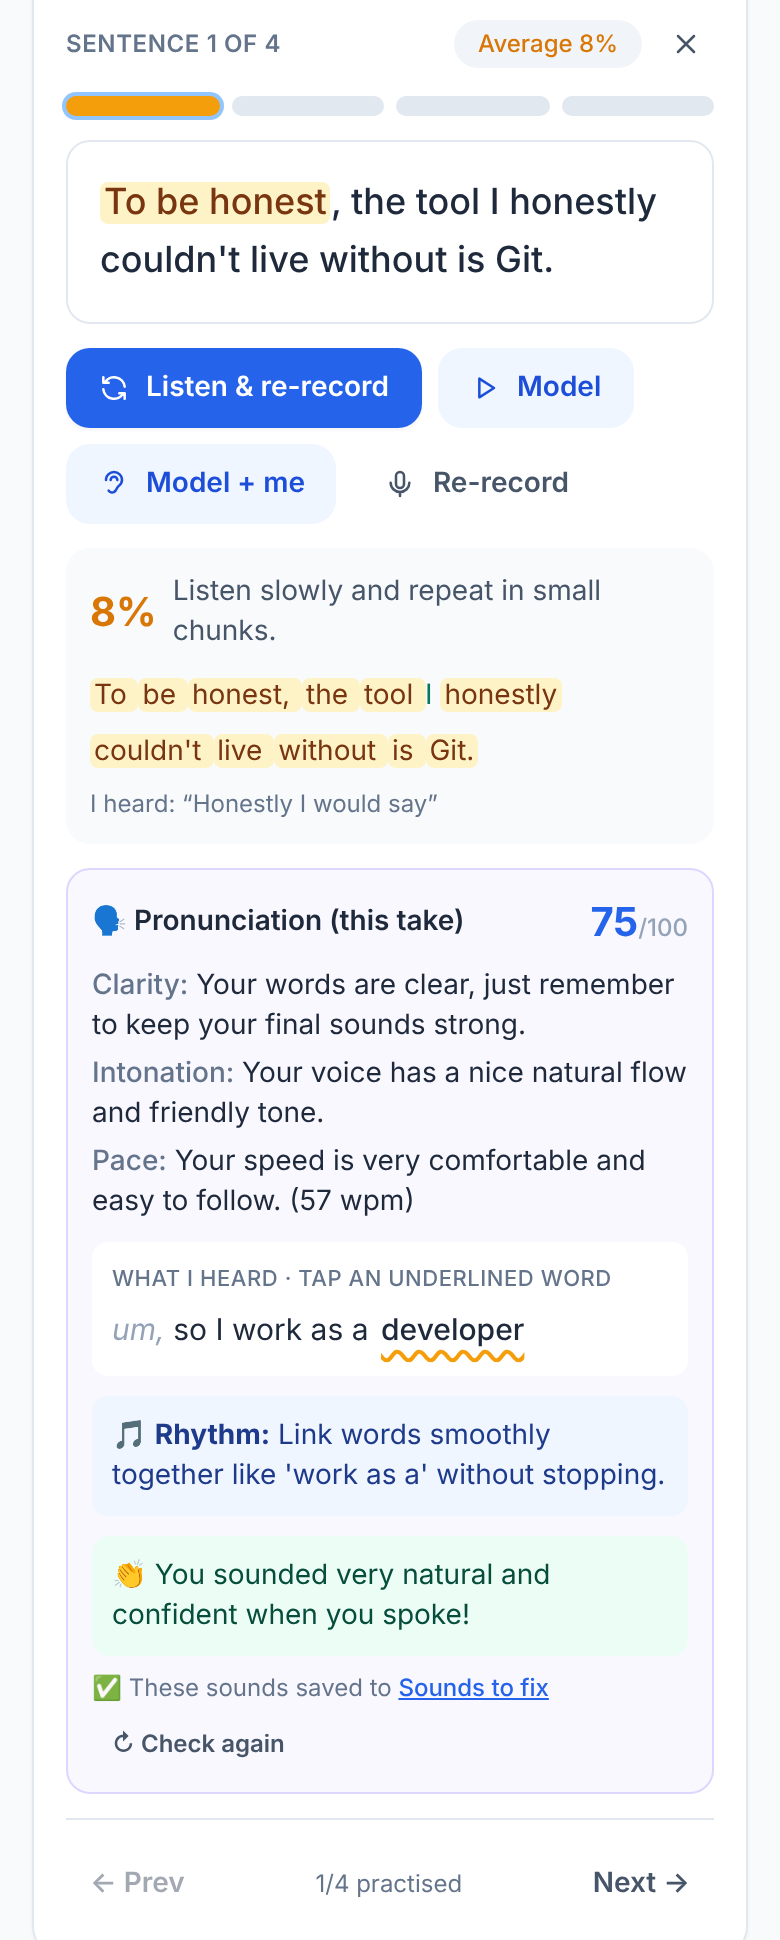
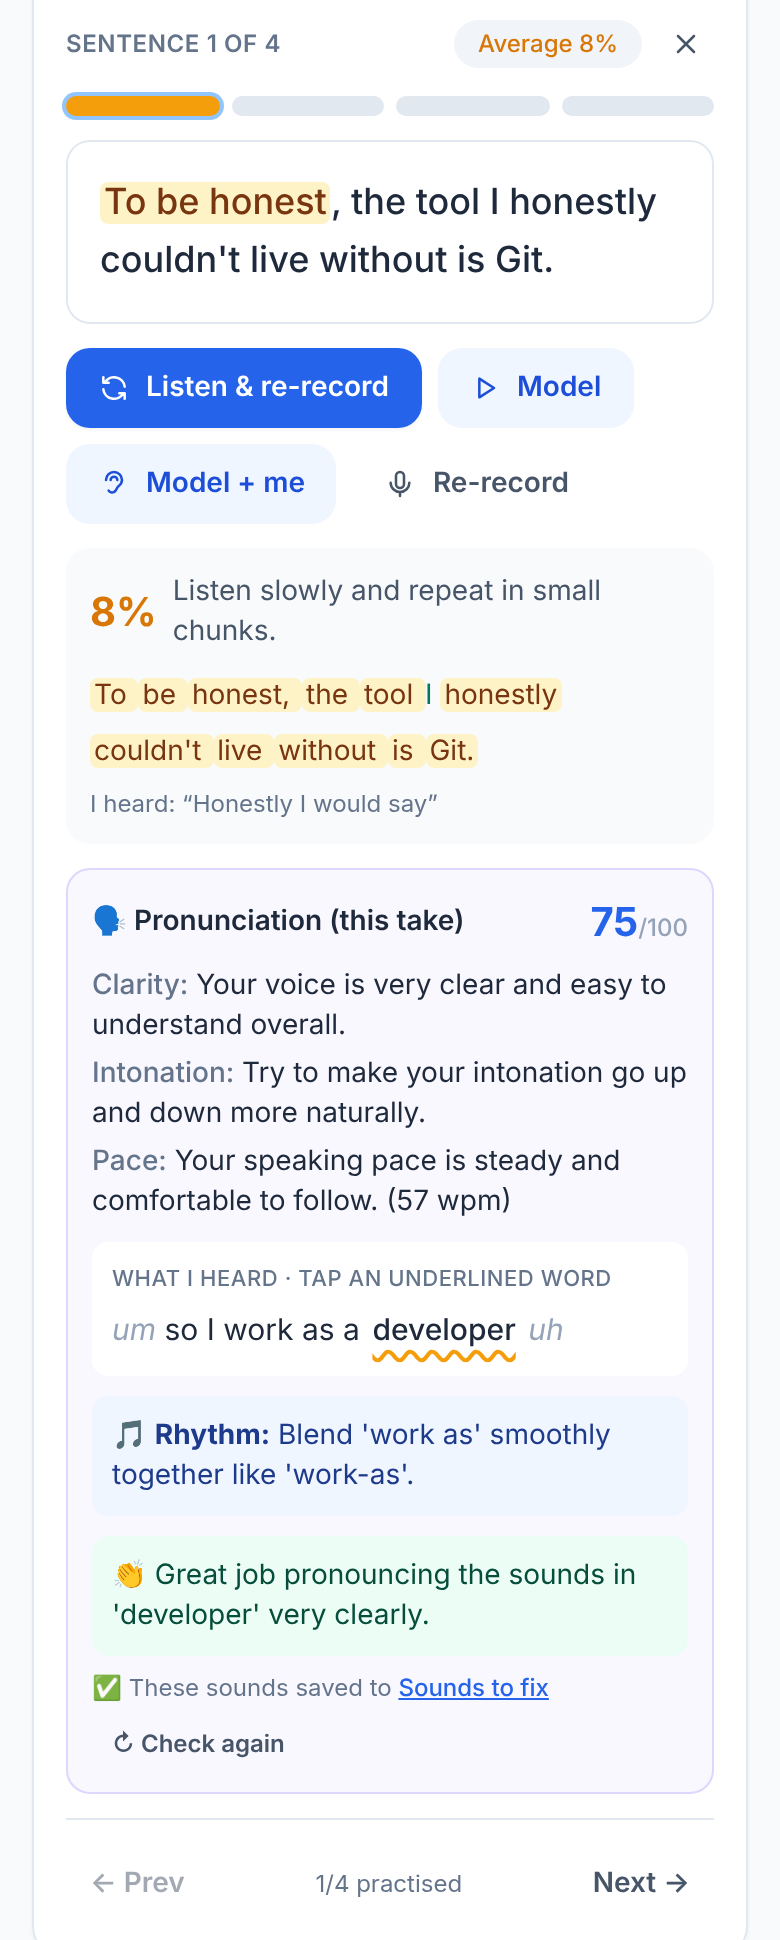
Pronunciation review fixes (EL) + save retell fluency
- pronunciationCheck takes the accent (Listen tab US/UK, default US): tips and IPA for that accent; word playback uses a matching voice
- 'th' repair (t/d -> th) only when the repaired word is in the recognised/target words, so to/do are never changed
- Listen retell fluency stats are now saved inside listening_sessions.retell (no migration) and shown in History
- Scripts: accent check in screenshots-pronunciation (demo UK, real US); History retell fluency check in screenshots-listen

diff --git a/src/components/PronunciationCard.tsx b/src/components/PronunciationCard.tsx
@@ -9,6 +9,7 @@ import { useStore } from '../lib/store';
 import type { PronunciationResult, PronWord } from '../lib/types';
 import { ErrorBox, Spinner } from './ui';
 import { useSayWord, WordTryButton } from './WordTry';
+import { preferredAccent } from '../lib/speech';
 
 const ISSUE_LABEL: Record<string, string> = {
   'final-consonant': 'Final sound',
@@ -37,6 +38,8 @@ interface Props {
   result?: PronunciationResult;
   onResult?: (r: PronunciationResult) => void;
   title?: string;
+  /** Target accent for tips, IPA and the word playback (default: the Listen tab choice, else US). */
+  accent?: 'US' | 'UK';
 }
 
 /**
@@ -44,7 +47,8 @@ interface Props {
  * a score, short notes, the transcript with 3–5 underlined problem words (tap to hear / retry),
  * one rhythm tip and one thing done well. Problem words are saved to "Sounds to fix".
  */
-export default function PronunciationCard({ clips, transcript, expected, context, result, onResult, title = '🗣 Pronunciation' }: Props) {
+export default function PronunciationCard({ clips, transcript, expected, context, result, onResult, title = '🗣 Pronunciation', accent: accentProp }: Props) {
+  const accent = accentProp || preferredAccent();
   const ai = useAIConfig();
   const { addSounds } = useStore();
   const [busy, setBusy] = useState(false);
@@ -66,7 +70,7 @@ export default function PronunciationCard({ clips, transcript, expected, context
     try {
       const audio = await prepareAudio(clips);
       if (!audio) throw new Error('No audio was captured. Record your answer with the mic and try again.');
-      const r = await pronunciationCheck(ai, audio, { expected, transcript, context });
+      const r = await pronunciationCheck(ai, audio, { expected, transcript, context, accent });
       if (!r.transcript.trim() && r.score === 0) throw new Error("I couldn't hear any speech in the recording. Check your microphone and try again.");
       setSaved(addSounds(r.words));
       setOpen('');
@@ -96,7 +100,7 @@ export default function PronunciationCard({ clips, transcript, expected, context
       )}
       {error && <div className="mt-2"><ErrorBox error={error} onRetry={run} /></div>}
 
-      {result && <PronResult result={result} open={open} setOpen={setOpen} />}
+      {result && <PronResult result={result} open={open} setOpen={setOpen} accent={accent} />}
 
       {result && (
         <div className="mt-2 flex flex-wrap items-center justify-between gap-2 text-xs">
@@ -111,8 +115,8 @@ export default function PronunciationCard({ clips, transcript, expected, context
 }
 
 /** The result body (also used read-only in History). */
-export function PronResult({ result, open, setOpen }: { result: PronunciationResult; open: string; setOpen: (w: string) => void }) {
-  const say = useSayWord();
+export function PronResult({ result, open, setOpen, accent }: { result: PronunciationResult; open: string; setOpen: (w: string) => void; accent?: 'US' | 'UK' }) {
+  const say = useSayWord(accent);
   // Match the transcript by the target word, or by how it sounded ("tree" for three) when the
   // transcript spells what was heard.
   const problems = useMemo(() => {
@@ -185,7 +189,7 @@ export function PronResult({ result, open, setOpen }: { result: PronunciationRes
         <div className="flex flex-wrap gap-1.5">{result.words.map((w) => <button key={w.word} type="button" onClick={() => tap(w)} data-testid="pron-word" className="chip bg-amber-100 text-amber-800 underline decoration-wavy">{w.word}</button>)}</div>
       )}
 
-      {active && <WordPanel w={active} />}
+      {active && <WordPanel w={active} accent={accent} />}
 
       {result.rhythmTip && <p className="rounded-lg bg-blue-50 p-2.5 text-sm text-blue-900 dark:bg-blue-950/50 dark:text-blue-100">🎵 <b>Rhythm:</b> {result.rhythmTip}</p>}
       {result.wellDone && <p className="rounded-lg bg-emerald-50 p-2.5 text-sm text-emerald-900 dark:bg-emerald-950/40 dark:text-emerald-100">👏 {result.wellDone}</p>}
@@ -193,8 +197,8 @@ export function PronResult({ result, open, setOpen }: { result: PronunciationRes
   );
 }
 
-function WordPanel({ w }: { w: PronWord }) {
-  const say = useSayWord();
+function WordPanel({ w, accent }: { w: PronWord; accent?: 'US' | 'UK' }) {
+  const say = useSayWord(accent);
   return (
     <div className="rounded-lg border border-amber-200 bg-amber-50 p-2.5 dark:border-amber-900/60 dark:bg-amber-950/30" data-testid="pron-panel">
       <div className="flex flex-wrap items-baseline gap-x-2">

diff --git a/src/lib/ai.ts b/src/lib/ai.ts
@@ -426,12 +426,15 @@ export const PRON_ISSUES = ['final-consonant', 'th', 's-sh', 'stress', 'vowel', 
 export async function pronunciationCheck(
   cfg: GeminiConfig,
   audio: { mimeType: string; data: string; seconds: number; measured?: { pauses: number; longestPause: number; speechSeconds: number } },
-  opts: { expected?: string; transcript?: string; context?: string },
+  opts: { expected?: string; transcript?: string; context?: string; accent?: 'US' | 'UK' },
 ): Promise<PronunciationResult> {
+  const accent = opts.accent === 'UK' ? 'UK' : 'US';
+  const accentName = accent === 'UK' ? 'British (UK)' : 'American (US)';
   const prompt = `You are listening to a recording of a Vietnamese learner of English (B1–B2) speaking${opts.context ? ` (${opts.context})` : ''}.
 ${opts.expected ? `They were trying to say: """${opts.expected.slice(0, 1500)}"""` : 'They were answering freely (no script).'}
 ${opts.transcript ? `Browser speech recognition heard (a rough hint only: it auto-corrects mistakes and drops fillers, so trust the AUDIO, not this text): """${opts.transcript.slice(0, 1500)}"""` : ''}
 The recording is about ${Math.round(audio.seconds)} seconds long.
+The learner is copying a standard ${accentName} accent: judge sounds against that accent and write every tip and IPA for it.
 
 Step 1 – transcribe EXACTLY what you hear, word for word, including every hesitation (um, uh, er) and filler phrase (like, you know, I mean). Use normal spelling.
 Step 2 – coach their pronunciation. Prioritise the problems Vietnamese speakers typically have:
@@ -442,7 +445,7 @@ Step 2 – coach their pronunciation. Prioritise the problems Vietnamese speaker
 Only report problems you clearly hear in THIS audio. Do not invent problems, do not repeat these examples unless you really hear them, and never comment on grammar or word choice.
 
 Rules:
-- "words": the 3 to 5 most useful problem words (fewer if the speech was good; never more than 5). "word" = the word they MEANT, spelled correctly (if the hint or your transcript contains the mispronounced form, e.g. "tree" for three or "ask" for asked, still give the intended word). For each: "heard" = roughly what it sounded like (simple spelling), "issue" = one of ${JSON.stringify(PRON_ISSUES)}, "tip" = ONE short, simple, practical tip for that word (max 14 words; show stress with capitals, e.g. "de-VEL-op"), "ipa" = standard American IPA of the word.
+- "words": the 3 to 5 most useful problem words (fewer if the speech was good; never more than 5). "word" = the word they MEANT, spelled correctly (if the hint or your transcript contains the mispronounced form, e.g. "tree" for three or "ask" for asked, still give the intended word). For each: "heard" = roughly what it sounded like (simple spelling), "issue" = one of ${JSON.stringify(PRON_ISSUES)}, "tip" = ONE short, simple, practical tip for that word (max 14 words; show stress with capitals, e.g. "de-VEL-op"), "ipa" = standard ${accent} IPA of the word.
 - "rhythmTip": ONE linking/rhythm tip for the whole answer using a phrase they actually said (e.g. "want to → wanna", "a lot of → a-lo-dəv"). Max 20 words.
 - "wellDone": one specific thing they did well (max 15 words).
 - "clarity", "intonation", "pace": one short sentence each (max 14 words).
@@ -482,7 +485,12 @@ JSON shape: {"transcript": string, "fillers": {"<filler>": number}, "longPauses"
       ipa: str(w?.ipa).replace(/^\/|\/$/g, ''),
     }))
     // A "th" problem reported on a word with no "th" is the heard form ("tree", "tink"): restore it.
-    .map((w) => (w.issue === 'th' && !/th/i.test(w.word) && /^[td]/i.test(w.word) ? { ...w, heard: w.heard || w.word, word: w.word.replace(/^[td]/i, 'th') } : w))
+    .map((w) => {
+      if (w.issue !== 'th' || /th/i.test(w.word) || !/^[td]/i.test(w.word)) return w;
+      const fixed = w.word.replace(/^[td]/i, 'th');
+      // Only when the repaired word was really said/meant (so "to"/"do" never become "tho").
+      return hintWords.includes(fixed.toLowerCase()) ? { ...w, heard: w.heard || w.word, word: fixed } : w;
+    })
     .filter((w) => w.word && w.tip && !seen.has(w.word.toLowerCase()) && seen.add(w.word.toLowerCase()))
     .slice(0, 5);
   const transcript = str(r.transcript) || opts.transcript || '';

diff --git a/src/pages/Listen.tsx b/src/pages/Listen.tsx
@@ -378,7 +378,7 @@ export default function Listen() {
                   {(session.pronunciation || clips.length > 0) && (
                     <PronunciationCard clips={retell.trim() === session.retell.retell.trim() ? clips : []} transcript={session.retell.retell} result={session.pronunciation}
                       onResult={(r) => { const f = withAudioFluency(session.retell?.fluency, r); save({ pronunciation: r, ...(session.retell ? { retell: { ...session.retell, ...(f ? { fluency: f } : {}) } } : {}) }); }}
-                      context="retelling a short dialogue they just heard" title="🗣 Pronunciation (your retell)" />
+                      context="retelling a short dialogue they just heard" accent={session.accent} title="🗣 Pronunciation (your retell)" />
                   )}
                 </>
               ) : (
@@ -388,7 +388,7 @@ export default function Listen() {
                     <>
                       <MicInput value={retell} onChange={setRetell} onSpeech={(s) => setSamples((a) => [...a, s])} onAudio={(c) => { setClips((a) => [...a, c]); setPron(undefined); }} placeholder="Tap the mic and retell the chat, or type…" rows={4} />
                       {fluency && <FluencyCard stats={fluency} title="📈 Fluency (this retell)" />}
-                      <PronunciationCard clips={clips} transcript={retell} result={pron} onResult={setPron} context="retelling a short dialogue they just heard" title="🗣 Pronunciation (this retell)" />
+                      <PronunciationCard clips={clips} transcript={retell} result={pron} onResult={setPron} context="retelling a short dialogue they just heard" accent={session.accent} title="🗣 Pronunciation (this retell)" />
                       <button className="btn-primary" onClick={doRetell} disabled={!retell.trim() || scoring}>{scoring ? <Spinner /> : <Icon name="check" className="h-4 w-4" />} Score my retell</button>
                     </>
                   )}
@@ -451,7 +451,7 @@ export function RetellCard({ s, showPron = true }: { s: ListenSession; showPron?
       {r.phrasesUsed.length > 0 && <p className="text-sm">💬 Phrases you used: {r.phrasesUsed.map((p) => <mark key={p} className="mark-phrase mr-1">{p}</mark>)}</p>}
       <p className="rounded-lg bg-slate-50 p-2.5 text-sm text-slate-600 dark:bg-slate-800/60 dark:text-slate-300">“{r.retell}”</p>
       {r.fluency && <FluencyCard stats={r.fluency} title="📈 Fluency (your retell)" />}
-      {showPron && s.pronunciation && <PronunciationCard clips={[]} transcript={r.retell} result={s.pronunciation} title="🗣 Pronunciation (your retell)" />}
+      {showPron && s.pronunciation && <PronunciationCard accent={s.accent} clips={[]} transcript={r.retell} result={s.pronunciation} title="🗣 Pronunciation (your retell)" />}
       {r.tip && <p className="rounded-lg bg-blue-50 p-2.5 text-sm text-blue-900 dark:bg-blue-950/50 dark:text-blue-100">💡 <b>Tip:</b> {r.tip}</p>}
       {r.modelRetell && (
         <div>

diff --git a/src/components/WordTry.tsx b/src/components/WordTry.tsx
@@ -1,5 +1,5 @@
 import { useEffect, useRef, useState } from 'react';
-import { createRecognition, speakWith, pickVoice, speechRecognitionSupported, type SpeechRecognitionLike } from '../lib/speech';
+import { accentVoice, createRecognition, preferredAccent, speakWith, speechRecognitionSupported, type SpeechRecognitionLike } from '../lib/speech';
 import { useStore } from '../lib/store';
 import Icon from './Icon';
 
@@ -28,9 +28,12 @@ export function heardWord(target: string, heard: string): boolean {
 }
 
 /** Play the target pronunciation with the user's chosen voice, a little slower. */
-export function useSayWord() {
+export function useSayWord(accent?: 'US' | 'UK') {
   const { state } = useStore();
-  return (word: string) => speakWith(word, { voice: pickVoice(state.settings.voiceURI), rate: Math.min(0.85, state.settings.rate), lang: 'en-US' });
+  return (word: string) => {
+    const a = accent || preferredAccent();
+    return speakWith(word, { voice: accentVoice(a, state.settings.voiceURI), rate: Math.min(0.85, state.settings.rate), lang: a === 'UK' ? 'en-GB' : 'en-US' });
+  };
 }
 
 export type TryResult = { ok: boolean; heard: string };

diff --git a/src/lib/speech.ts b/src/lib/speech.ts
@@ -260,3 +260,16 @@ export function speakWith(text: string, opts: { voice?: SpeechSynthesisVoice; ra
     window.speechSynthesis.speak(u);
   });
 }
+
+/** The accent chosen on the Listen tab (US or UK), used for pronunciation targets. Default US. */
+export function preferredAccent(): 'US' | 'UK' {
+  try { return (JSON.parse(localStorage.getItem('speakup.listen') || '{}') as { accent?: string }).accent === 'UK' ? 'UK' : 'US'; } catch { return 'US'; }
+}
+
+/** A voice for the accent: the user's chosen voice if it already matches, else the best voice for that accent. */
+export function accentVoice(accent: 'US' | 'UK', voiceURI: string): SpeechSynthesisVoice | undefined {
+  const mine = pickVoice(voiceURI);
+  const want = accent === 'UK' ? 'en-gb' : 'en-us';
+  if (mine && mine.lang.replace('_', '-').toLowerCase() === want) return mine;
+  return dialogueVoices(accent)[0].voice || mine;
+}

diff --git a/src/lib/db.ts b/src/lib/db.ts
@@ -161,7 +161,7 @@ function listenRow(userId: string, l: ListenSession) {
     question_score: l.questionScore == null ? null : clamp(Math.round(num(l.questionScore)), 0, 3),
     dictation_text: l.dictationText ?? null,
     dictation_accuracy: l.dictationAccuracy == null ? null : clamp(Math.round(num(l.dictationAccuracy)), 0, 100),
-    retell: l.retell ? j((({ fluency: _f, ...rest }) => rest)(l.retell)) : null,
+    retell: l.retell ? j(l.retell) : null, // includes the retell's fluency stats
     retell_score: l.retell ? clamp(Math.round(num(l.retell.score)), 0, 100) : null,
     pronunciation: l.pronunciation ? j(l.pronunciation) : null,
     session_date: date(l.date),
